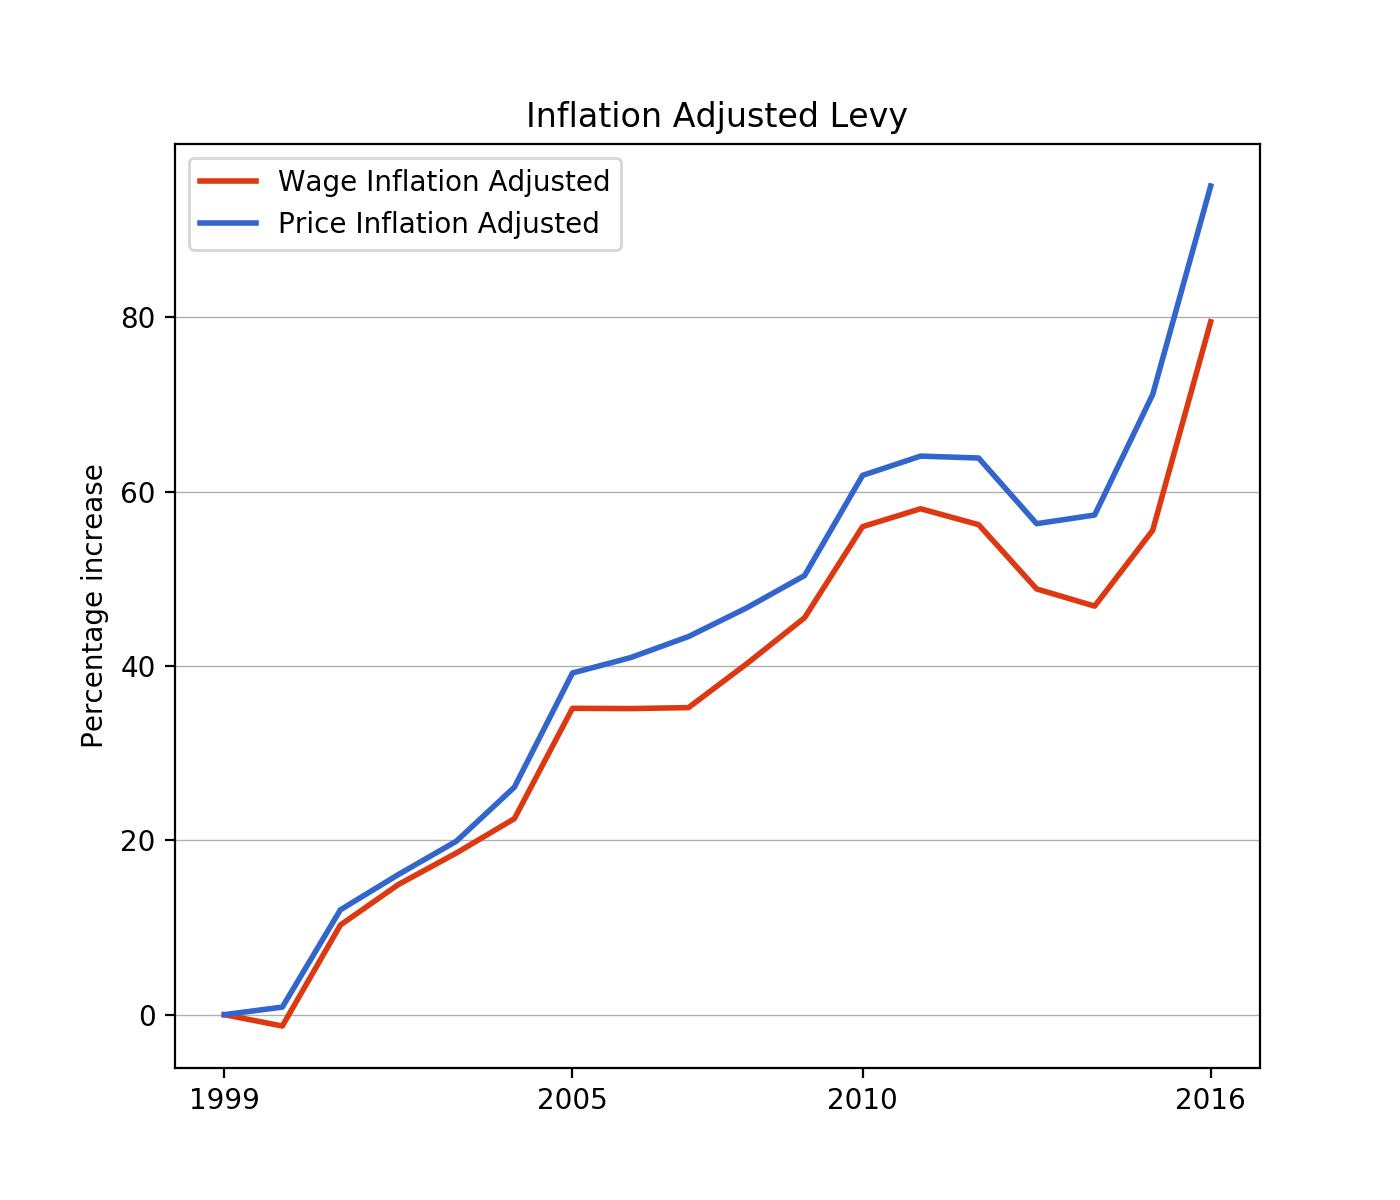
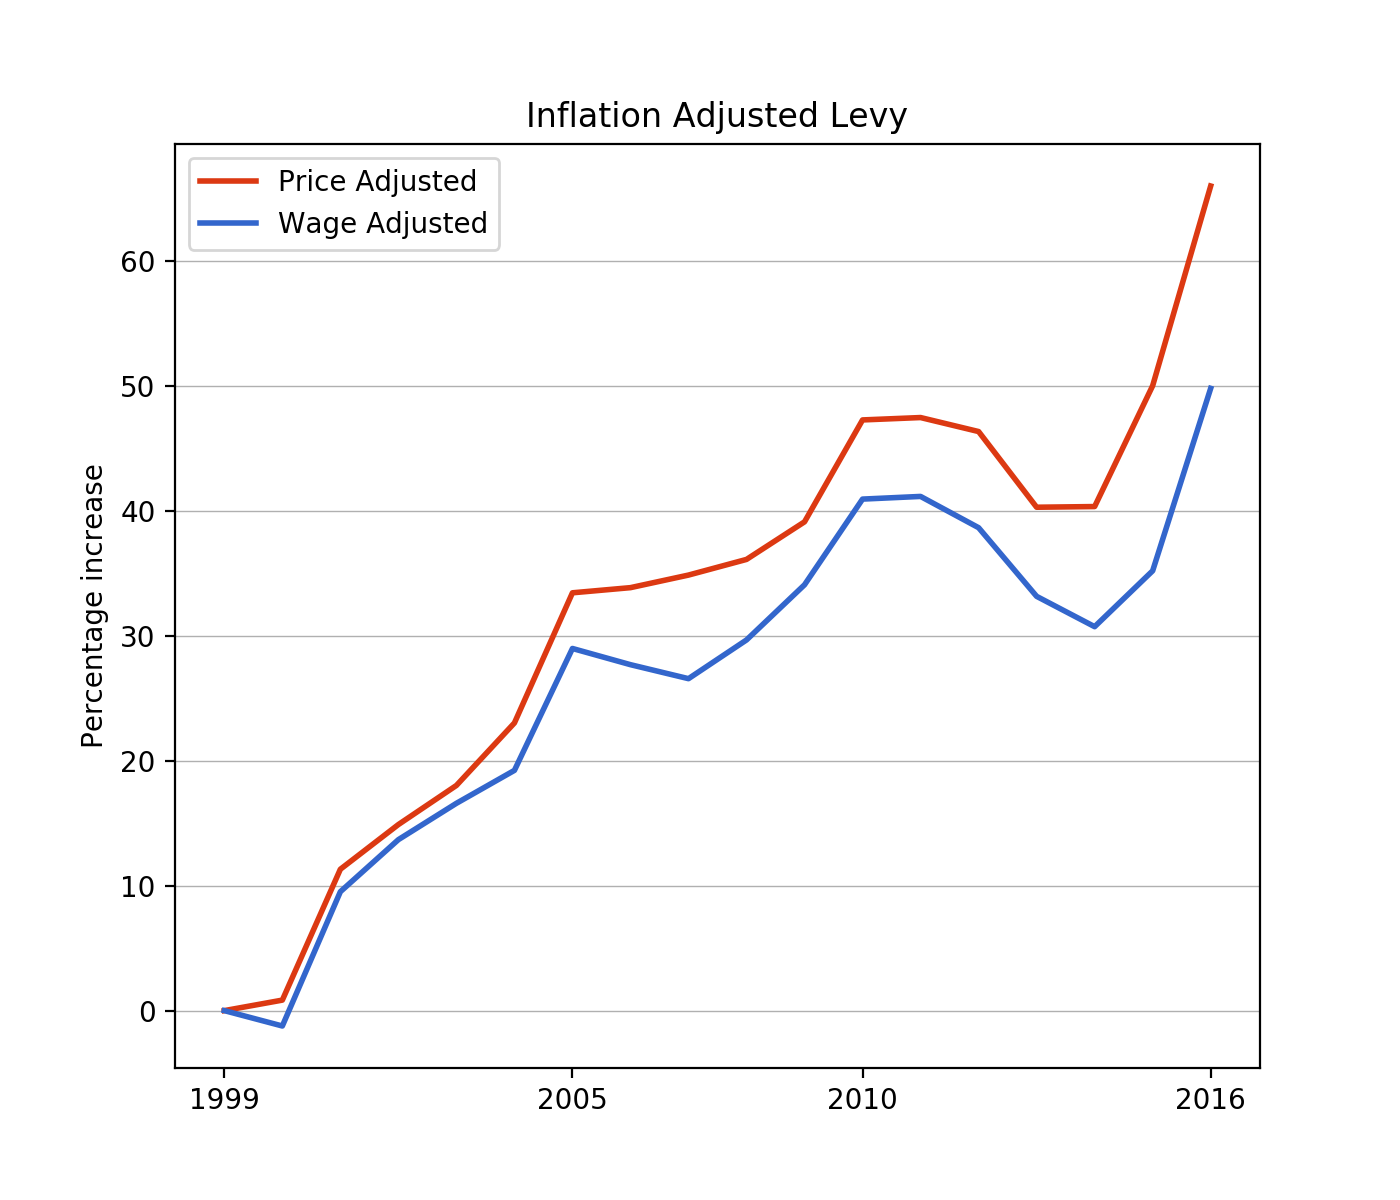
Added per student calcs, wage and price comparisons

diff --git a/scripts/d97enrollmentcomparison.py b/scripts/d97enrollmentcomparison.py
@@ -1,0 +1,34 @@
+import pandas as pd
+import numpy as np
+import matplotlib.pyplot as plt
+
+baseyear = 2002
+final = pd.read_csv("oak park tax history summary.csv")
+final = final[final.Year != 'All']
+
+final = final.set_index(np.array(final.Year).astype(int))
+final = final[ final.index > 2001]
+based97enrollment = final['D97 Enrollment'][baseyear]
+based97 = final.D97[baseyear]
+basecpi = final.CPI[baseyear]
+baseawi = final.AWI[baseyear]
+d97 = (final.D97 - based97) / based97
+cpi = (final.CPI - basecpi) / basecpi
+awi = (final.AWI - baseawi) / baseawi
+d97enrollment = (final['D97 Enrollment'] - based97enrollment) / based97enrollment
+
+
+plt.close()
+plt.figure(figsize=(7,6), dpi=200)
+plt.title("D97 Levy Compared with Prices, Wages, and Enrollment")
+plt.ylabel('Percentage Increase')
+line1=plt.plot(d97 * 100, color='#dc3912', linewidth=2)
+line3=plt.plot(cpi * 100, color='#3366cc', linewidth=2)
+line4=plt.plot(awi * 100, color='#990099', linewidth=2)
+line5=plt.plot(d97enrollment * 100,  color='#109618', linewidth=2)
+
+plt.xticks([2002, 2004, 2006, 2008, 2010, 2012, 2014, 2016])
+plt.legend(['D97 Levy', 'Per Student Levy', 'Prices', 'Wages', 'Enrollment'])
+plt.grid(axis='y', linewidth=0.5)
+
+plt.savefig('charts/d97 enrollment wage and price comparisons.png')

diff --git a/scripts/d97perstudent.py b/scripts/d97perstudent.py
@@ -1,0 +1,29 @@
+import pandas as pd
+import numpy as np
+import matplotlib.pyplot as plt
+
+baseyear = 2002
+final = pd.read_csv("oak park tax history summary.csv")
+final = final[final.Year != 'All']
+
+final = final.set_index(np.array(final.Year).astype(int))
+final = final[ final.index > 2001]
+based97enrollment = final['D97 Enrollment'][baseyear]
+baseperstudent = final.D97[baseyear] / based97enrollment
+
+perstudent = ((final.D97 /  final['D97 Enrollment']) - baseperstudent) / baseperstudent
+d97enrollment = (final['D97 Enrollment'] - based97enrollment) / based97enrollment
+
+
+plt.close()
+plt.figure(figsize=(7,6), dpi=200)
+plt.title("D97 Per Student Levy Growth")
+plt.ylabel('Percentage Increase')
+line2=plt.plot(perstudent * 100, color='#dc3912', linewidth=2)
+line5=plt.plot(d97enrollment * 100,  color='#3366cc', linewidth=2)
+
+plt.xticks([2002, 2004, 2006, 2008, 2010, 2012, 2014, 2016])
+plt.legend(['Per Student Levy', 'Enrollment'])
+plt.grid(axis='y', linewidth=0.5)
+
+plt.savefig('charts/d97 per student levy growth.png')

diff --git a/scripts/wagepricecomparison.py b/scripts/wagepricecomparison.py
@@ -13,6 +13,8 @@ levy = (final.All - baselevy) / baselevy
 cpi = (final.CPI - basecpi) / basecpi
 awi = (final.AWI - baseawi) / baseawi
 
+cpiadjusted = final.All * basecpi / final.CPI 
+awiadjusted = final.All * baseawi / final.AWI 
 plt.close()
 plt.figure(figsize=(7,6), dpi=200)
 plt.ylabel("Percentage increase")
@@ -30,10 +32,10 @@ plt.close()
 plt.figure(figsize=(7,6), dpi=200)
 plt.ylabel("Percentage increase")
 plt.title('Inflation Adjusted Levy')
-line1=plt.plot((levy - awi) * 100, color='#dc3912', linewidth=2)
-line2=plt.plot((levy - cpi) * 100, color='#3366cc', linewidth=2)
+line1=plt.plot(100* (cpiadjusted - baselevy) / baselevy , color='#dc3912', linewidth=2)
+line2=plt.plot(100* (awiadjusted - baselevy) / baselevy, color='#3366cc', linewidth=2)
 plt.xticks([1999, 2005, 2010, 2016])
-plt.legend(['Wage Inflation Adjusted', 'Price Inflation Adjusted'])
+plt.legend(['Price Adjusted', 'Wage Adjusted'])
 plt.grid(axis='y', linewidth=0.5)
 
 plt.savefig('charts/wage and price adjusted.png')

diff --git a/scripts/pivot.py b/scripts/pivot.py
@@ -9,5 +9,9 @@ pivot = pivot.join(cpi.CPI)
 awi = pd.read_csv("awi.csv")
 awi = awi.set_index(awi.Year)
 pivot = pivot.join(awi.AWI)
+d97enrollment = pd.read_csv("d97demographics.csv")
+d97enrollment = d97enrollment.set_index(d97enrollment.Year)
+pivot = pivot.join(pd.Series(d97enrollment['D97 Enrollment']))
+
 
 pivot.to_csv('oak park tax history summary.csv')
